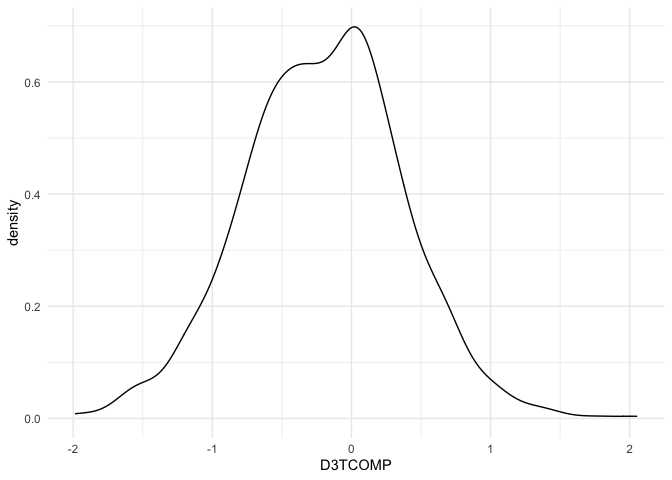
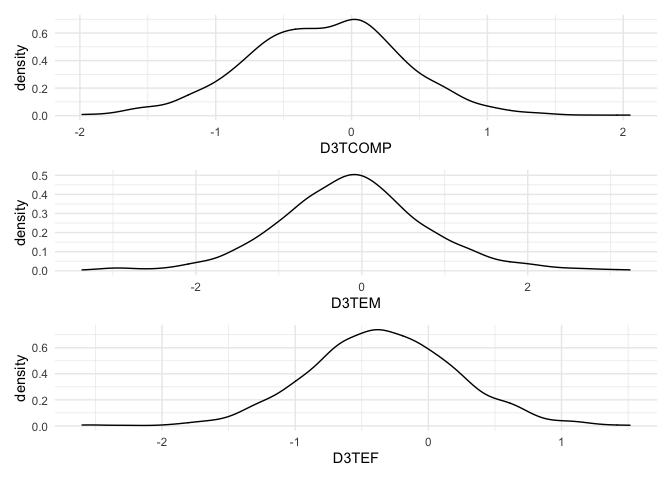
10.24 updates

diff --git a/investigations.md b/investigations.md
@@ -375,6 +375,58 @@ full_df_no_invalid = full_df_no_invalid %>%
 #write.csv(full_df_no_invalid, "./data/full_df_inval.csv")
 ```
 
+## Normality check and what it meant
+
+visual inspection
+
+``` r
+a = full_df_no_invalid %>% 
+  ggplot(aes(x = D3TCOMP))+
+  geom_density()
+b = full_df_no_invalid %>% 
+  ggplot(aes(x = D3TEM))+
+  geom_density()
+c = full_df_no_invalid %>% 
+  ggplot(aes(x = D3TEF))+
+  geom_density()
+a/b/c
+```
+
+![](investigations_files/figure-gfm/unnamed-chunk-13-1.png)<!-- -->
+
+statistical tests
+
+``` r
+nortest::lillie.test(full_df_no_invalid$B3TEMZ3)
+```
+
+    ## 
+    ##  Lilliefors (Kolmogorov-Smirnov) normality test
+    ## 
+    ## data:  full_df_no_invalid$B3TEMZ3
+    ## D = 0.070117, p-value = 7.642e-11
+
+``` r
+nortest::lillie.test(full_df_no_invalid$C3TEM)
+```
+
+    ## 
+    ##  Lilliefors (Kolmogorov-Smirnov) normality test
+    ## 
+    ## data:  full_df_no_invalid$C3TEM
+    ## D = 0.075349, p-value = 1.271e-12
+
+For large sample dataset, the normality tests can detect very slight
+deviations from normality, making the statistical test results not that
+reliable. Also, according to central limit theorem, we can actually
+ignore the fact that the dataset is not normally distributed.
+
+Moreover, the B3TEMZ3 and C3TEM in the original/raw dataset (read
+directly from MIDUS website, see “updates.rmd” for more information) has
+failed the normality test, indicating that the original dataset doesn’t
+follow normal distribution (this would be a question to MIDUS then). I
+haven’t got any insights on how to calculate the unstandardized scores.
+
 # Modeling
 
 I completely filter out all the observations with at least one invalid
@@ -799,6 +851,28 @@ For those insignificant results, the interpretation will thus be: the
 <dependent variable>. For example, the ctq_total did not significantly
 predict the change in executive functioning.
 
+**dependent variable is change in EM**:
+
+                        \|Estimate\| Std. Error\| df\| t value\|
+Pr(>\|*t*\|)\|
+
+\|ctq_total \| -0.005618 \| 0.002064\| 838.954544 \| -2.722 \| 0.00663
+\*\* \|
+
+For example, subject A has ctq_total of 20 whereas subject B has
+ctq_total of 21. In this case,
+*Δ*<sub>*E**M*<sub>*B*</sub></sub> = *Δ*<sub>*E**M*<sub>*A*</sub></sub> − 0.005618.
+Both *Δ*<sub>*E**M*<sub>*A*</sub></sub> and
+*Δ*<sub>*E**M*<sub>*B*</sub></sub> are calculated as
+*M*<sub>3</sub> − *M*<sub>2</sub>, i.e. we can rewrite the previous
+equation as
+*E**M*<sub>*B*, *M*3</sub> − *E**M*<sub>*B*, *M*2</sub> = *E**M*<sub>*A*, *M*3</sub> − *E**M*<sub>*A*, *M*2</sub> − 0.005618.
+Followed from the equations, subject B thus has a more drastic decrease,
+comparing to themselves, in Episodic memory from M2 to M3 than subject
+A. To generalize what we just said, on average, 1 unit increase in the
+ctq_total score (more childhood trauma) will result in 0.005618 more
+decline in Episodic Memory scores.
+
 ### Threat and deprivation
 
 **threat**
@@ -1135,19 +1209,19 @@ Check model assumptions
 plot(lmm_model2_cs, main = "Change in Composite Scores: resid vs. fitted")
 ```
 
-![](investigations_files/figure-gfm/unnamed-chunk-35-1.png)<!-- -->
+![](investigations_files/figure-gfm/unnamed-chunk-36-1.png)<!-- -->
 
 ``` r
 plot(lmm_model2_em, main = "Change in Episodic Memory: resid vs. fitted")
 ```
 
-![](investigations_files/figure-gfm/unnamed-chunk-35-2.png)<!-- -->
+![](investigations_files/figure-gfm/unnamed-chunk-36-2.png)<!-- -->
 
 ``` r
 plot(lmm_model2_ef, main = "Change in Executive Function: resid vs. fitted")
 ```
 
-![](investigations_files/figure-gfm/unnamed-chunk-35-3.png)<!-- -->
+![](investigations_files/figure-gfm/unnamed-chunk-36-3.png)<!-- -->
 
 # Modifiers: eudaimonia effect
 
